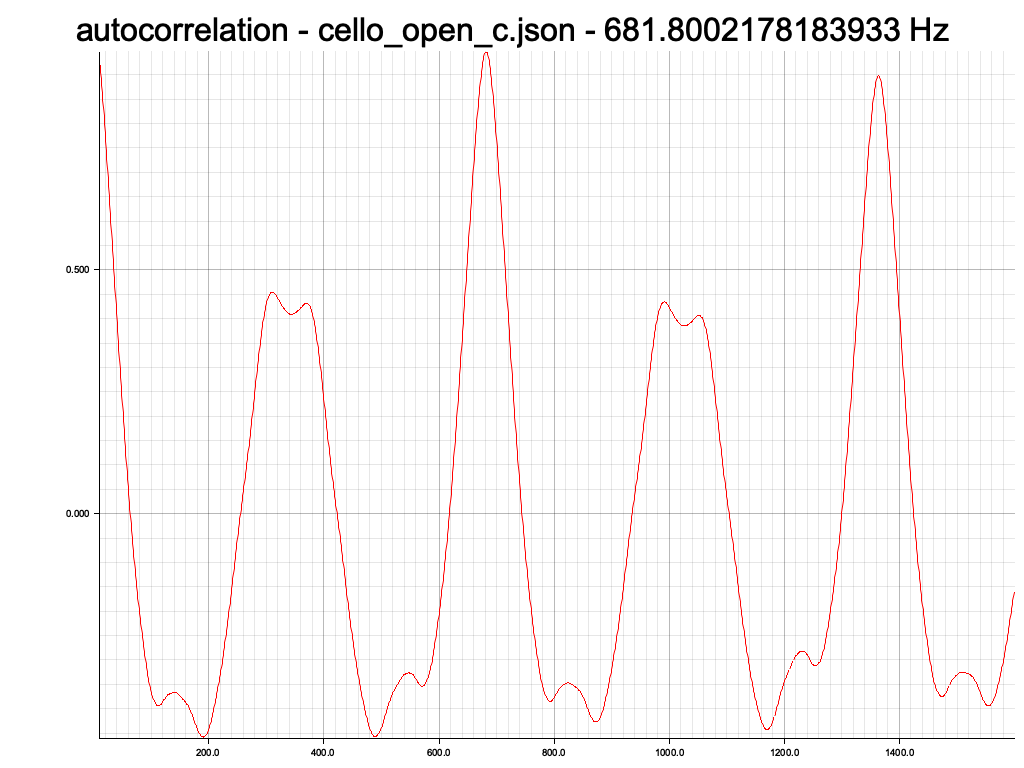
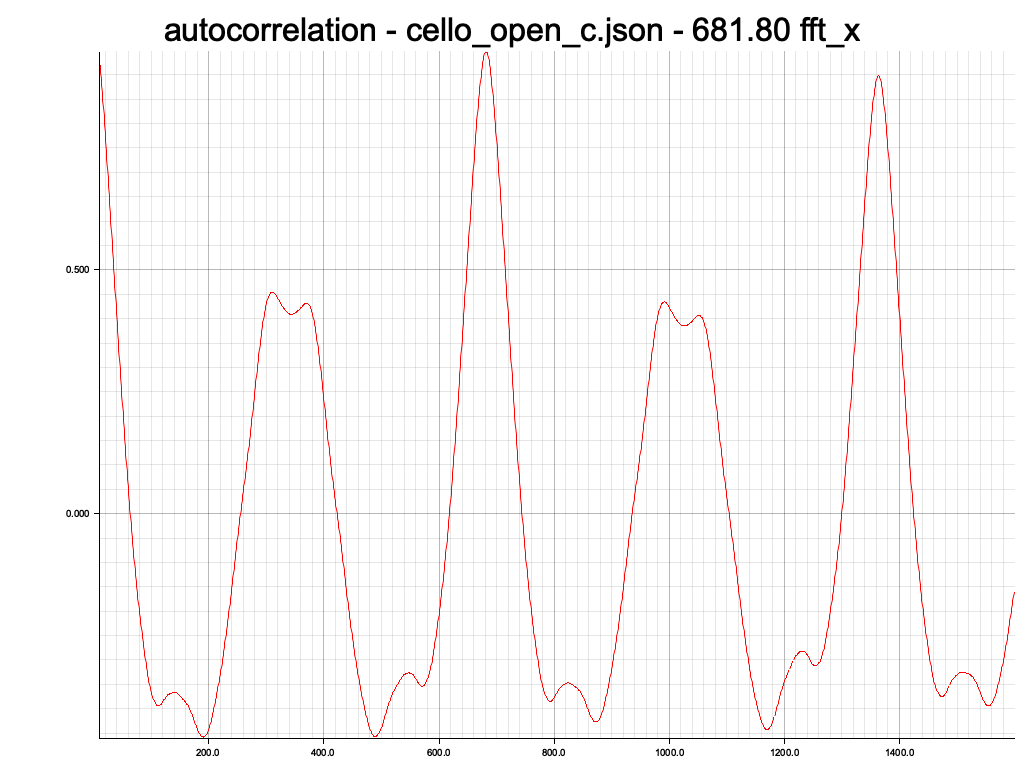
improved the title plot

Changed region(s): [[0.0625, 0.0, 0.9375, 0.0625]]

diff --git a/examples/spectrum_plot.rs b/examples/spectrum_plot.rs
@@ -7,18 +7,13 @@ use freq_detector::{
 };
 use plotters::prelude::*;
 
-fn plot<D, I>(detector: &D, signal: I, plot_name: &str, expected_freq: f64) -> anyhow::Result<()>
+fn plot<D, I>(detector: &D, signal: I, plot_name: &str, fft_x: f64) -> anyhow::Result<()>
 where
     I: IntoIterator,
     <I as IntoIterator>::Item: std::borrow::Borrow<f64>,
     D: FrequencyDetector + FrequencyDetectorTest,
 {
-    let plot_title = format!(
-        "{} - {} - {:?} Hz",
-        detector.name(),
-        plot_name,
-        expected_freq
-    );
+    let plot_title = format!("{} - {} - {:.2} fft_x", detector.name(), plot_name, fft_x);
     let output_file = format!(
         "{}/test_data/results/{}.png",
         env!("CARGO_MANIFEST_DIR"),
